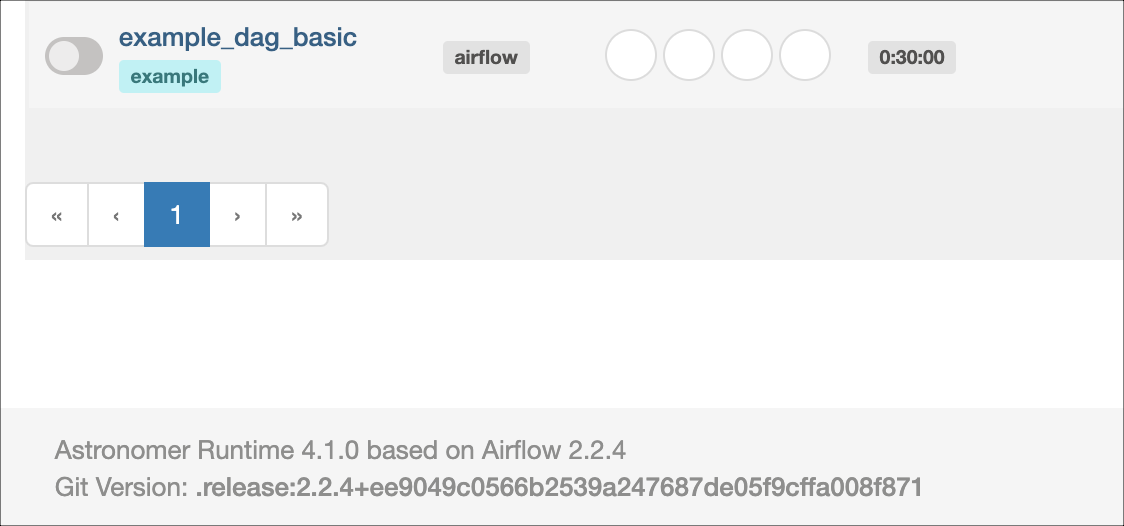
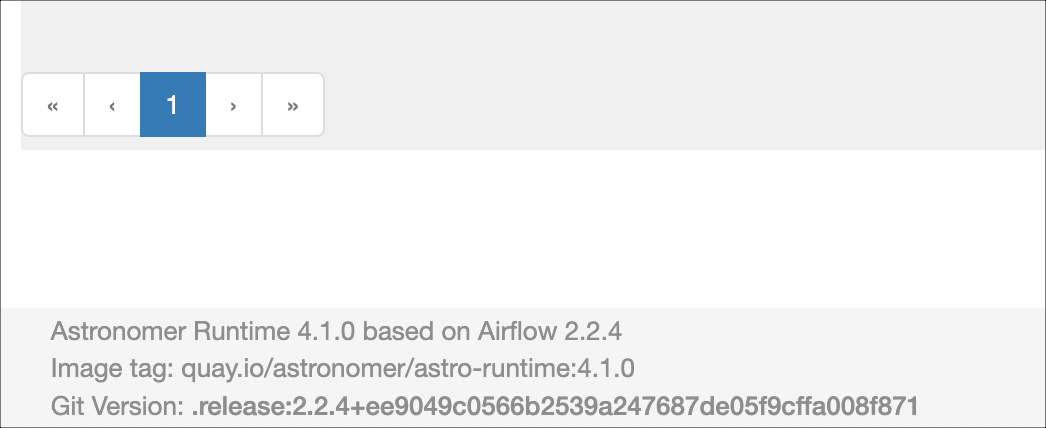
Update for review

diff --git a/astro/runtime-release-notes.md b/astro/runtime-release-notes.md
@@ -34,8 +34,10 @@ The Airflow UI now shows the Docker image tag that is running on the Airflow Web
 When you push code to a Deployment on Astro via the Astro CLI or CI/CD, reference this tag in the Airflow UI to verify that your changes were successfully applied.
 
 ::: info
+
 The Docker image tag shown in the Airflow UI only represents the tag that is running on at least 1 Webserver container in your Deployment. While it is a likely indicator, it is not a guarantee that this Docker image and version of your Astro project is running on your Airflow Scheduler, Workers, or Triggerer.
-If you ever have trouble verifying a code push to a Deployment on Astro, reach out to [Astronomer Support](https://support.astronomer.io). We're here to help.
+If you ever have trouble verifying a code push to a Deployment on Astro, reach out to [Astronomer Support](https://support.astronomer.io).
+
 :::
 
 ### New Deferrable Operators Now Available
@@ -60,7 +62,7 @@ These are all [deferrable operators](deferrable-operators.md) built by Astronome
 
 ### Additional Improvements
 
-- The `openlineage-airflow` provider package is now installed in Runtime by default.
+- The [`openlineage-airflow`](https://openlineage.io/integration/apache-airflow/) provider package is now installed in Runtime by default.
 
 ## Astro Runtime 4.0.8
 
